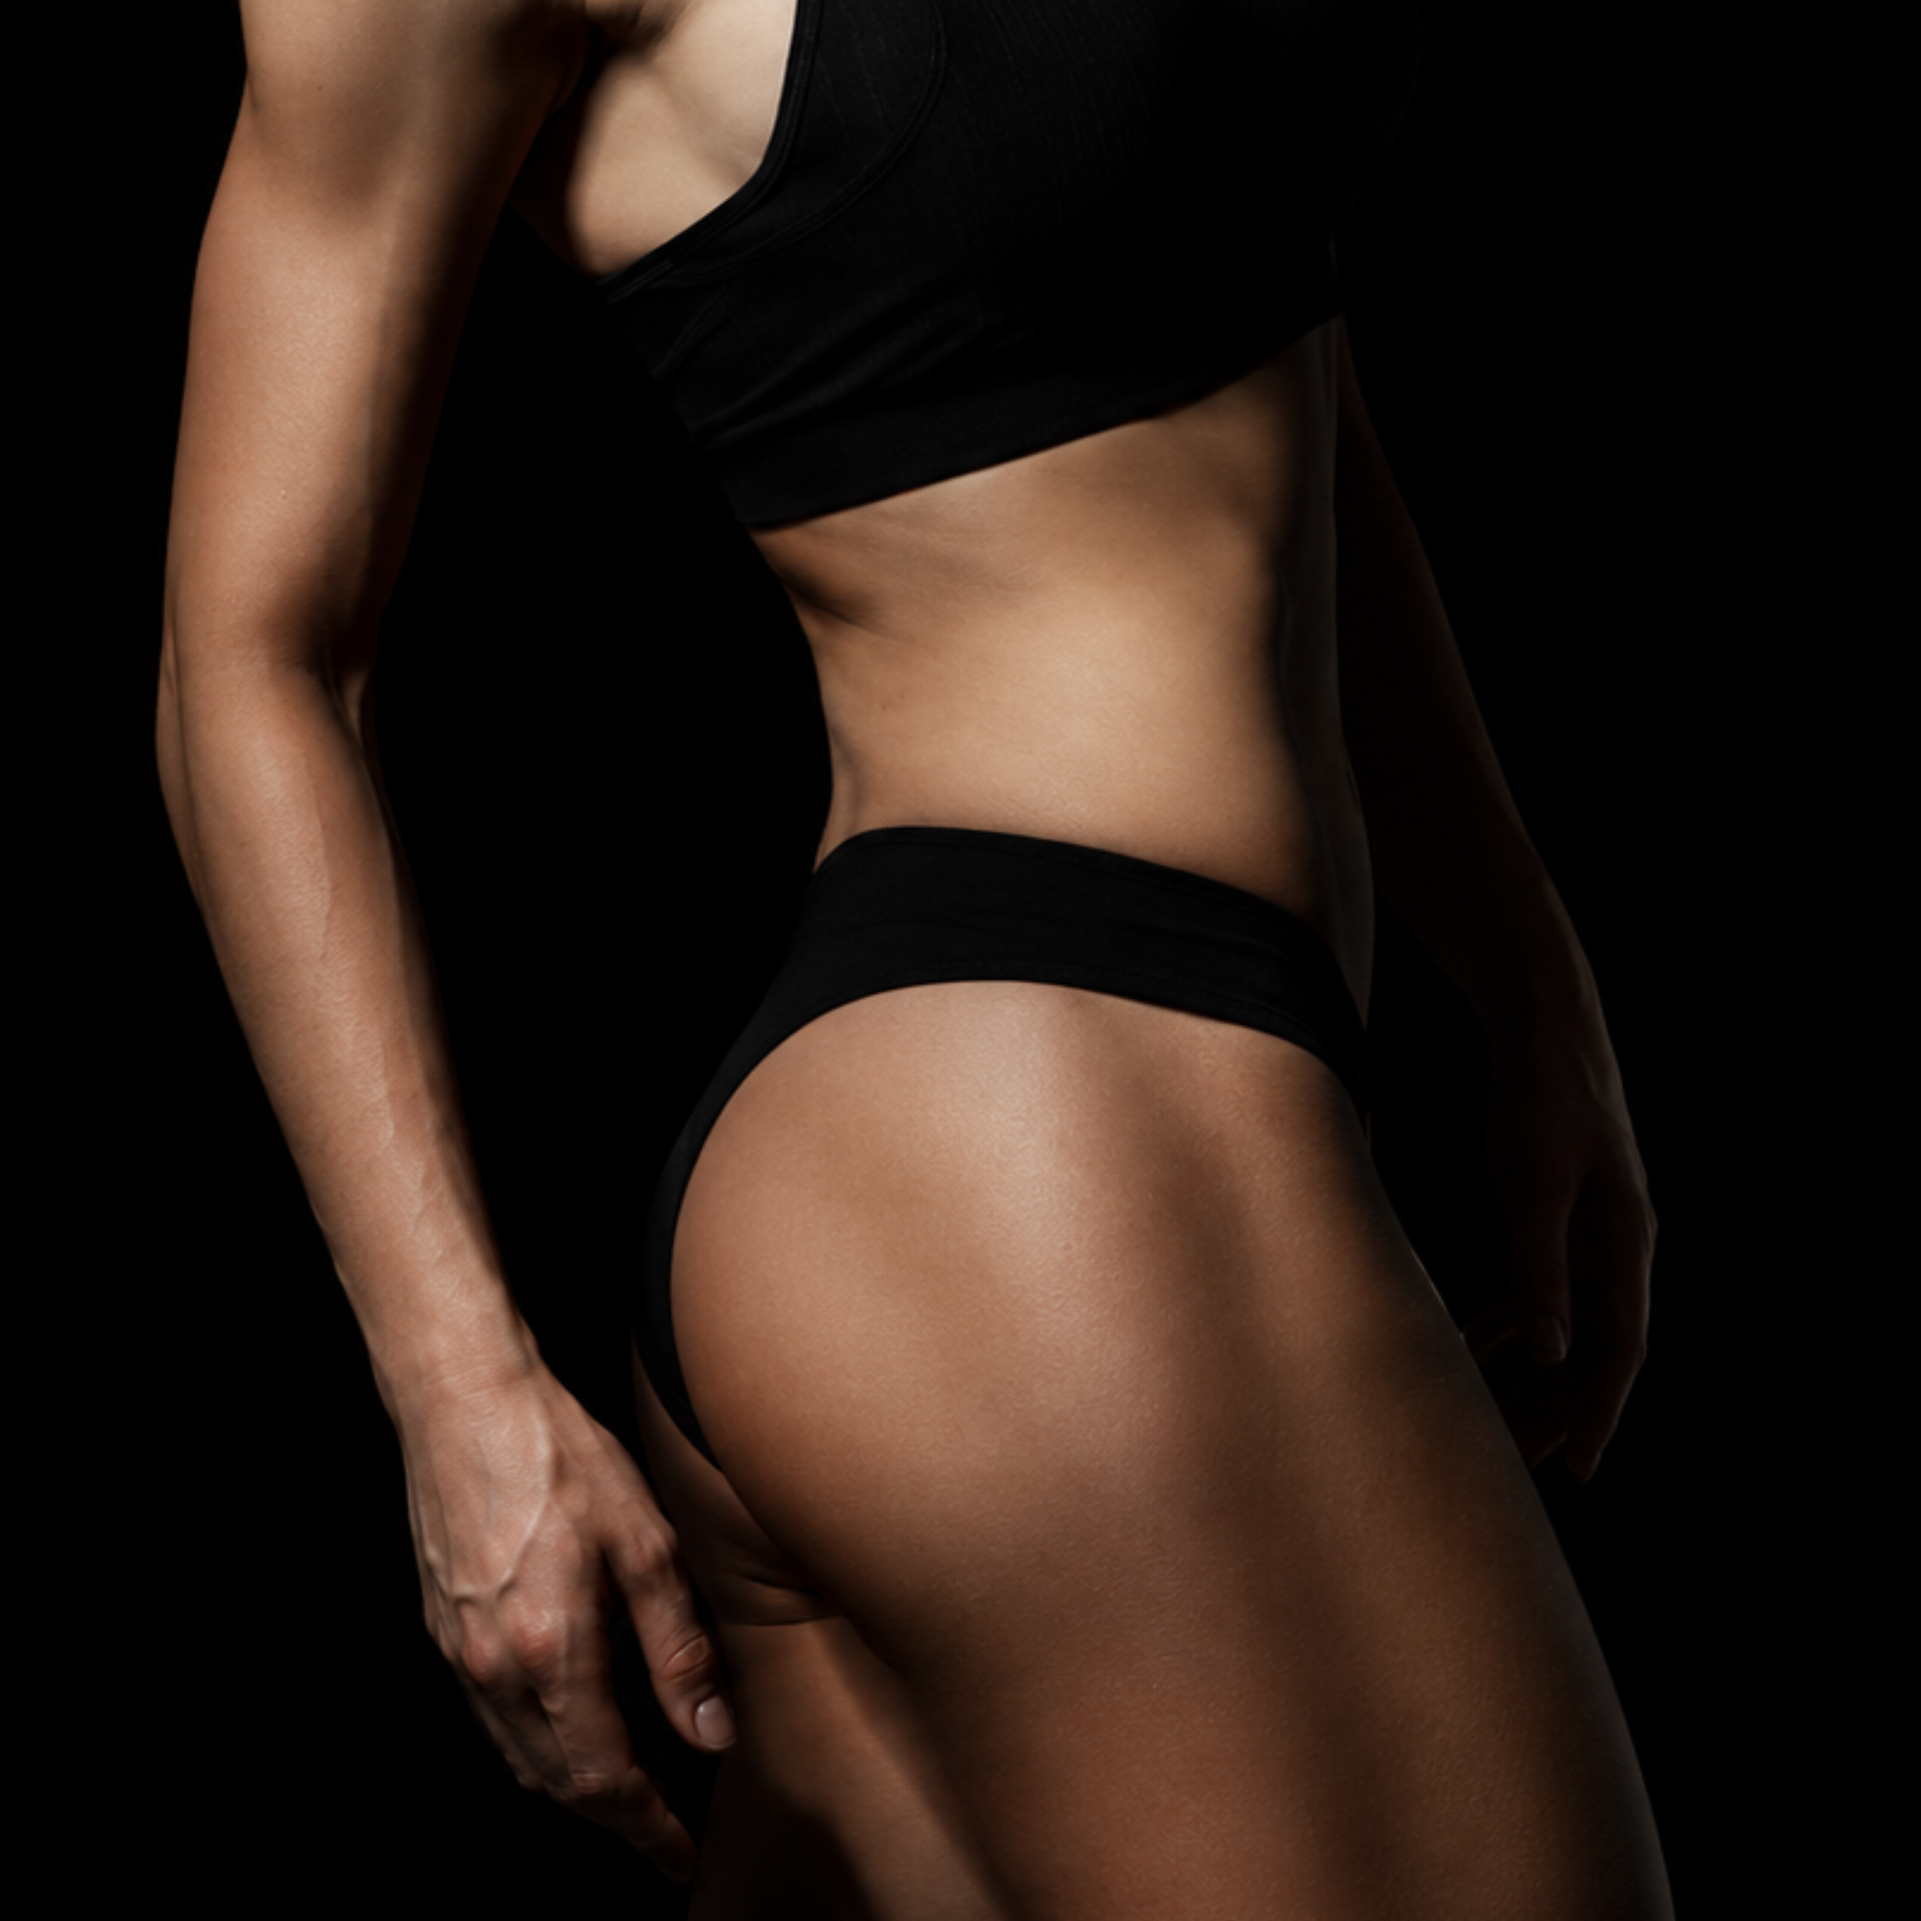
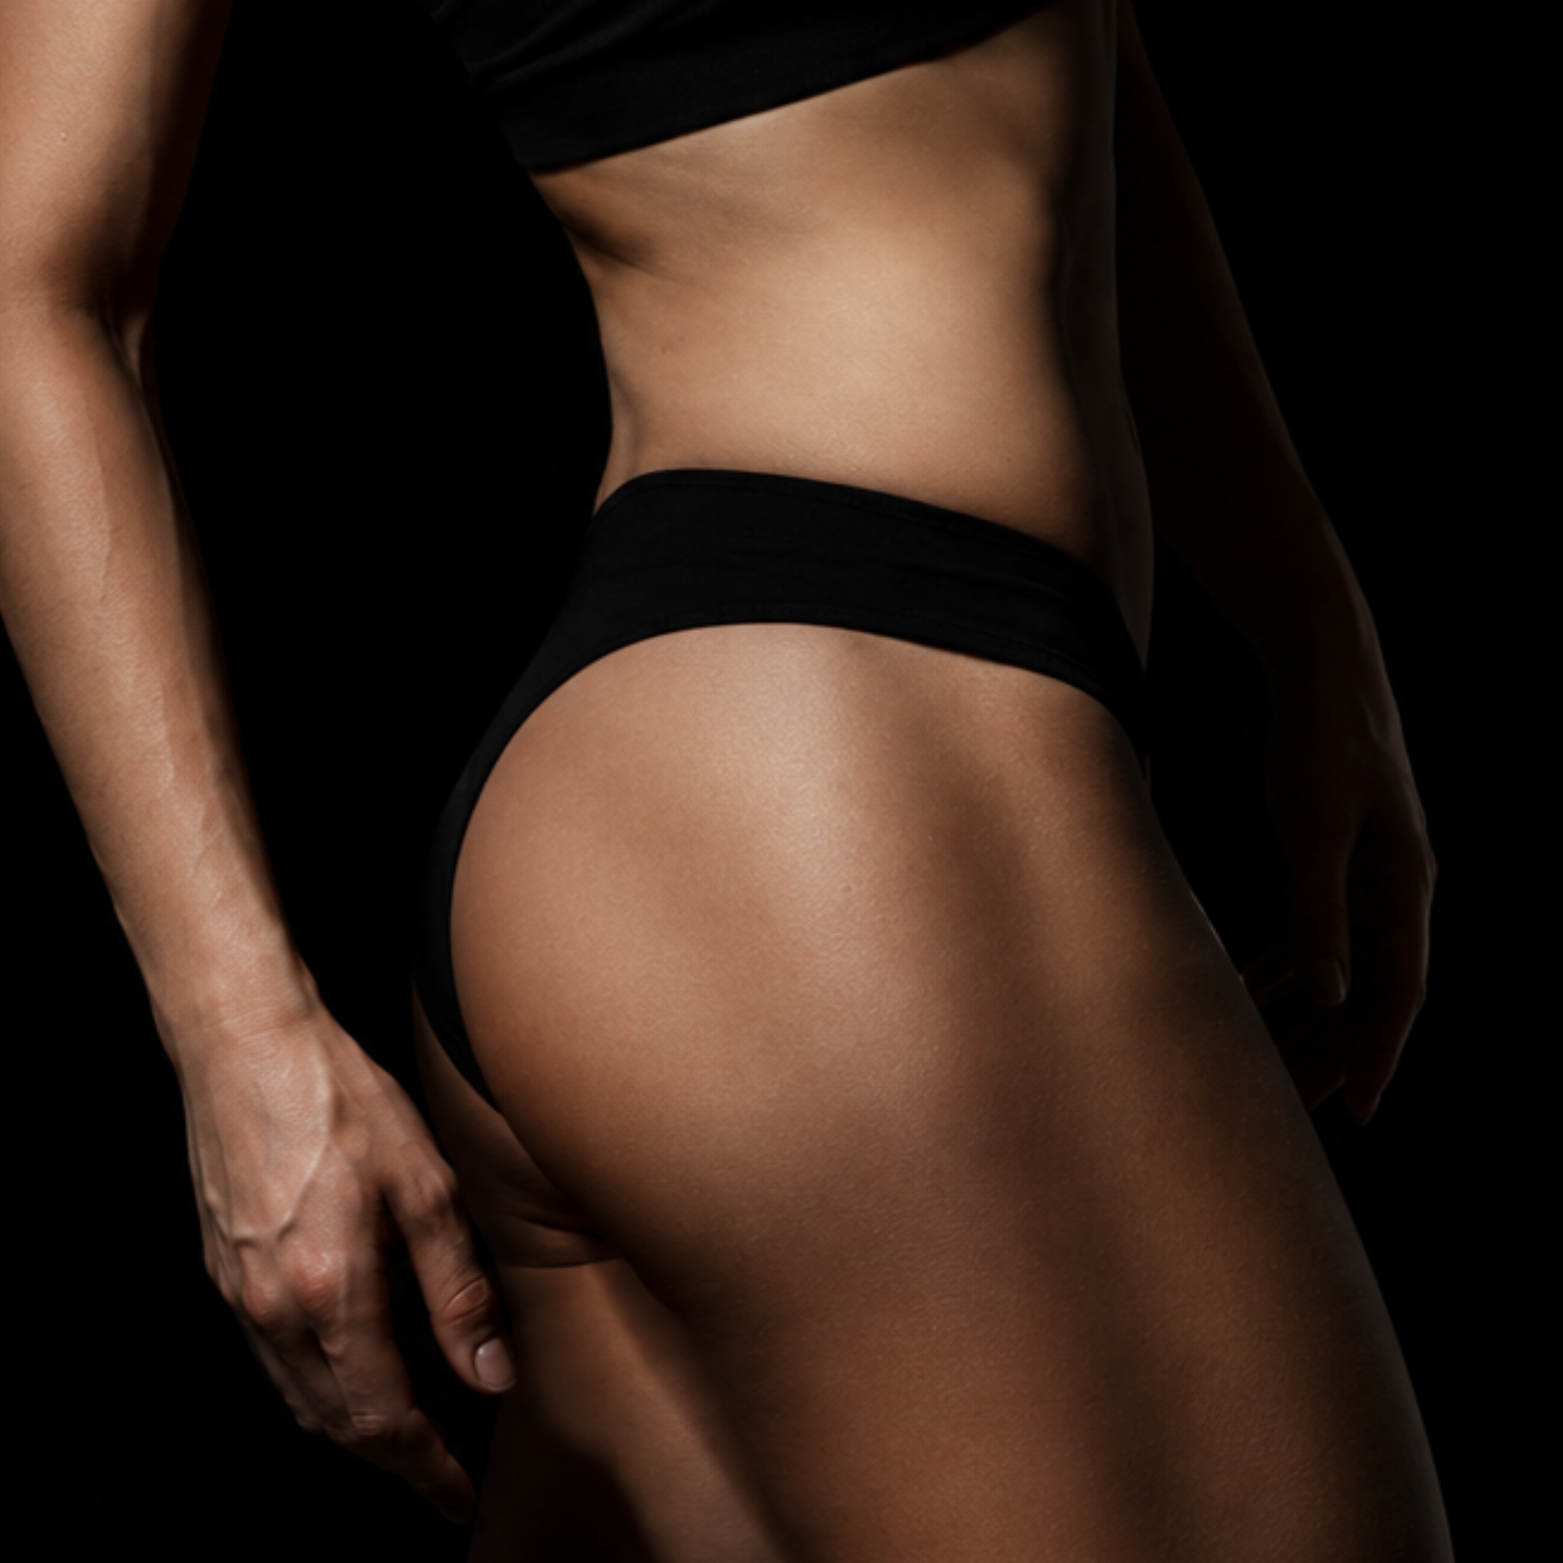
novos icones de treino

diff --git a/index.html b/index.html
@@ -385,6 +385,8 @@
               style="margin-bottom: 0"
             >
               <option value="peitoral">Peitoral</option>
+              <option value="biceps">Bíceps</option>
+               <option value="ombros">Ombros</option>
               <option value="costas">Costas</option>
               <option value="pernas">Pernas</option>
               <option value="gluteos">Glúteos</option>

diff --git a/app.js b/app.js
@@ -737,6 +737,8 @@ document.addEventListener("DOMContentLoaded", () => {
       };
       const categoryImages = {
         peitoral: "assets/img/peitoral.png",
+        biceps: "assets/img/biceps.png",
+        ombros: "assets/img/ombros.png",
         costas: "assets/img/costas.png",
         pernas: "assets/img/pernas.png",
         gluteos: "assets/img/gluteos.png",
